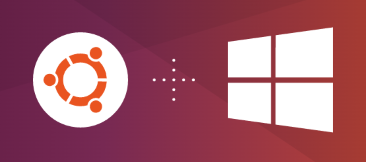
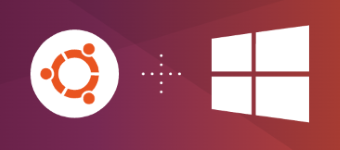
Further sizing enhancements
- Previously resizing the window was disabled.
- Maximize button was forgotten. It's disabled now.
- Assets rescaled for better fit.

diff --git a/lib/slide.dart b/lib/slide.dart
@@ -43,27 +43,29 @@ class Slide extends StatelessWidget {
           title: Text(title),
           automaticallyImplyLeading: false,
         ),
-        Padding(
-          padding: const EdgeInsets.all(kInSlideSpacing),
-          child: Row(
-            crossAxisAlignment: CrossAxisAlignment.center,
-            mainAxisAlignment: MainAxisAlignment.center,
-            children: [
-              Image(
-                image: image,
-                fit: BoxFit.cover,
-              ),
-              Flexible(
-                child: Padding(
-                  padding: const EdgeInsets.all(kInSlideSpacing),
-                  child: Text(
-                    text,
-                    style: Theme.of(context).textTheme.headline6!.copyWith(
-                        color: Colors.white70, fontWeight: FontWeight.normal),
+        SizedBox(
+          height: 400,
+          child: Padding(
+            padding: const EdgeInsets.all(kInSlideSpacing),
+            child: Row(
+              mainAxisAlignment: MainAxisAlignment.spaceAround,
+              children: [
+                Image(
+                  image: image,
+                  fit: BoxFit.fitHeight,
+                ),
+                Flexible(
+                  child: Padding(
+                    padding: const EdgeInsets.only(left: kInSlideSpacing),
+                    child: Text(
+                      text,
+                      style: Theme.of(context).textTheme.headline6!.copyWith(
+                          color: Colors.white70, fontWeight: FontWeight.normal),
+                    ),
                   ),
                 ),
-              ),
-            ],
+              ],
+            ),
           ),
         ),
       ],

diff --git a/windows/runner/win32_window.cpp b/windows/runner/win32_window.cpp
@@ -117,7 +117,7 @@ bool Win32Window::CreateAndShow(const std::wstring& title,
   double scale_factor = dpi / 96.0;
 
   HWND window = CreateWindow(
-      window_class, title.c_str(), (WS_OVERLAPPEDWINDOW ^ WS_THICKFRAME) | WS_VISIBLE,
+      window_class, title.c_str(), (WS_OVERLAPPEDWINDOW ^ WS_THICKFRAME ^ WS_MAXIMIZEBOX) | WS_VISIBLE,
       Scale(origin.x, scale_factor), Scale(origin.y, scale_factor),
       Scale(size.width, scale_factor), Scale(size.height, scale_factor),
       nullptr, nullptr, GetModuleHandle(nullptr), this);
